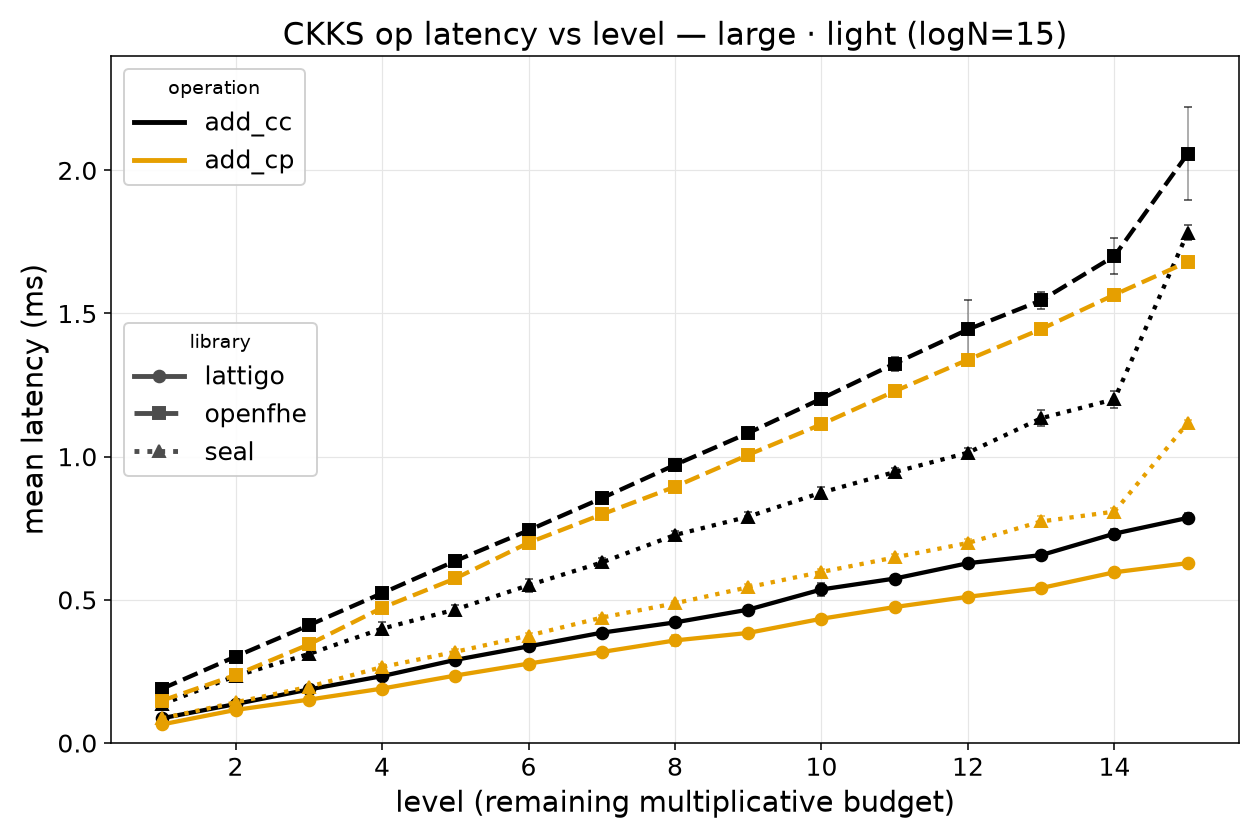
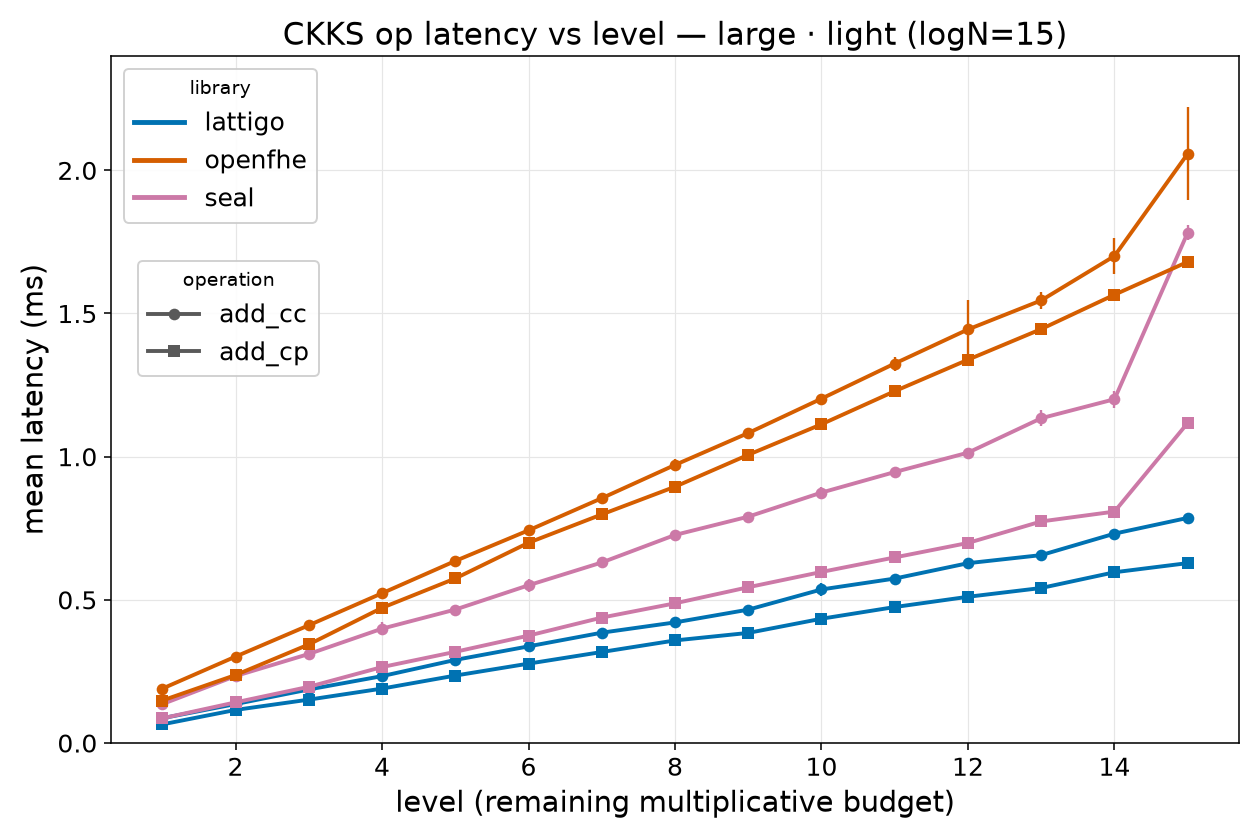
plots: 레벨별 추이 차트 인코딩 변경 (색=라이브러리, 마커=연산, 전부 실선)
문제: 3자가 되며 선이 9개인데 색=연산 / 선스타일=라이브러리라 선 하나를 짚으려면
범례 둘을 교차 참조해야 했다. 게다가 요약 막대 차트는 색=라이브러리라 같은 발표
안에서 색의 의미가 뒤바뀌었다.

- 선스타일 인코딩 폐지 — 전부 실선
- 색 = 라이브러리 (요약 차트와 동일: lattigo #0072B2 / openfhe #D55E00 / seal #CC79A7)
- 마커 = 연산. 티어별로 o, s, ^ 재사용(light는 연산 2개라 o, s만).
  채운 마커 + markeredgewidth=0, markeredgecolor=선색 → 마커와 선이 한 획으로 이어진다
- 에러바 = 표준편차 1배, elinewidth 1.2 / capsize 3 / capthick 1.2, 색은 라이브러리 색
- 범례 library / operation 을 좌상단에 세로로 배치(leg1 실제 높이를 재서 아래에 붙임)

요약 막대 차트(plot_summary_*)는 건드리지 않았다.

Claude-Session: https://claude.ai/code/session_01QAUSb1GNgxJ2ga7wyt3GKn

diff --git a/aggregate.py b/aggregate.py
@@ -27,8 +27,13 @@ plt.rcParams.update({
 LIB_COLOR = {"lattigo": "#0072B2", "openfhe": "#D55E00", "seal": "#CC79A7"}  # 파랑 / 주황 / 보라
 LIB_ORDER = ["lattigo", "openfhe", "seal"]
 LIB_LABEL = {"lattigo": "Lattigo", "openfhe": "OpenFHE", "seal": "SEAL"}
-LIB_LS = {"lattigo": "-", "openfhe": "--", "seal": ":"}
-LIB_MARKER = {"lattigo": "o", "openfhe": "s", "seal": "^"}
+LIB_LS = {"lattigo": "-", "openfhe": "--", "seal": ":"}      # (구) 레벨 차트 선스타일 인코딩 — 폐지됨
+LIB_MARKER = {"lattigo": "o", "openfhe": "s", "seal": "^"}   # (구) 동상
+# 레벨 차트 신 스타일(2026-07-27): 색=라이브러리(요약 막대와 동일), 마커=연산, 선은 전부 실선.
+# 예전엔 색=연산 / 선스타일=라이브러리라 선 하나를 짚으려면 범례 둘을 교차 참조해야 했고,
+# 요약 막대 차트(색=라이브러리)와 같은 발표 안에서 색의 의미가 뒤바뀌었다.
+# 마커는 티어마다 재사용한다 — 한 차트 안에서만 구분되면 되고, 종류가 적을수록 읽기 쉽다.
+TIER_MARKERS = ["o", "s", "^"]
 
 OP_COLOR = {
     "add_cc": "#000000",
@@ -259,8 +264,8 @@ def console_summary(df):
 
 
 def plot_level_scaling(df):
-    # 프리셋 × 비용층별 별도 PNG: x=level, y=mean(ms, log), 색=op, 선스타일=library.
-    # 층으로 나눠 op끼리 안 눌리고 Lattigo vs OpenFHE 간격이 잘 보인다.
+    # 프리셋 × 비용층별 별도 PNG: x=level, y=mean(ms), **색=library, 마커=operation, 선은 전부 실선**.
+    # 마커는 채우고 테두리를 없애(mew=0, mec=선색) 마커와 선이 한 획으로 이어져 보이게 한다.
     from matplotlib.lines import Line2D
     for preset in PRESET_ORDER:
         sub = df[df["preset"] == preset]
@@ -270,6 +275,8 @@ def plot_level_scaling(df):
             present = [o for o in ops if not sub[sub["op"] == o].empty]
             if not present:
                 continue
+            # 마커는 티어 내 연산 순서대로 o, s, ^ (light는 연산이 2개라 o, s만 쓰인다).
+            op_marker = {o: TIER_MARKERS[i % len(TIER_MARKERS)] for i, o in enumerate(present)}
             fig, ax = plt.subplots(figsize=(9, 6))
             ymax = 0.0
             for op in present:
@@ -280,22 +287,21 @@ def plot_level_scaling(df):
                     # mean_us/std_us를 ms(÷1000)로 그린다. 원본 데이터는 μs 유지.
                     mean_ms = d["mean_us"].values / 1000.0
                     std_ms = d["std_us"].values / 1000.0
-                    # 선형축이라 대칭 에러바(yerr=std). log_safe_yerr는 로그축 전용이라 미사용.
-                    container = ax.errorbar(
+                    # 에러바 = 표준편차 1배, 캡 스타일. 색은 해당 라이브러리 색.
+                    ax.errorbar(
                         d["level"], mean_ms,
                         yerr=std_ms,
-                        color=OP_COLOR[op],
-                        linestyle=LIB_LS[lib],
-                        marker=LIB_MARKER[lib],
-                        markersize=6, linewidth=2.2,
-                        capsize=2, elinewidth=0.8, ecolor=OP_COLOR[op],
+                        color=LIB_COLOR[lib],
+                        linestyle="-",
+                        marker=op_marker[op],
+                        markersize=6, linewidth=2.0,
+                        markeredgewidth=0, markeredgecolor=LIB_COLOR[lib],
+                        elinewidth=1.2, capsize=3, capthick=1.2,
+                        ecolor=LIB_COLOR[lib],
                     )
-                    for bar in container[2]:  # barlinecols
-                        bar.set_alpha(0.4)
-                    for cap in container[1]:  # caplines
-                        cap.set_alpha(0.6)
                     ymax = max(ymax, float((mean_ms + std_ms).max()))
             # 선형축, 층 데이터에 타이트하게 0부터 시작 → 배수 차이를 정직하게 표시.
+            # mt에서 OpenFHE 에러바가 축을 늘리더라도 그대로 둔다 — 분산이 큰 것 자체가 결과다.
             ax.set_ylim(0, ymax * 1.08)
             ax.set_xlabel("level (remaining multiplicative budget)")
             ax.set_ylabel("mean latency (ms)")
@@ -303,20 +309,21 @@ def plot_level_scaling(df):
                          f"(logN={sub['logN'].iloc[0]})")
             ax.grid(True, which="both", axis="both", color="0.9", linewidth=0.6)
             ax.set_axisbelow(True)
-            # 범례 2개: op=색, library=선스타일 (원본 그대로).
-            op_handles = [Line2D([0], [0], color=OP_COLOR[o], lw=2.5, label=o) for o in present]
-            lib_handles = [
-                *[Line2D([0], [0], color="0.3", lw=2.5, linestyle=LIB_LS[l],
-                         marker=LIB_MARKER[l], label=l) for l in LIB_ORDER],
-            ]
-            # 두 범례 모두 왼쪽에 세로로 배치한다. 곡선이 모두 단조 증가라 왼쪽 위/가운데가
-            # 항상 비어 있는 반면, lower right는 낮게 깔리는 op(예: mul_cp)의 끝점을 가린다
-            # (3자가 되며 범례가 커져 실제로 large·mid에서 가려졌다).
-            leg1 = ax.legend(handles=op_handles, title="operation", loc="upper left",
+
+            # 범례 2개를 좌상단에 세로로 쌓는다. library(색) 위, operation(마커) 아래.
+            lib_handles = [Line2D([0], [0], color=LIB_COLOR[l], lw=2.5, label=l)
+                           for l in LIB_ORDER]
+            op_handles = [Line2D([0], [0], color="0.35", lw=2.0, marker=op_marker[o],
+                                 markersize=6, markeredgewidth=0, label=o) for o in present]
+            leg1 = ax.legend(handles=lib_handles, title="library", loc="upper left",
                              framealpha=0.9)
             ax.add_artist(leg1)
-            ax.legend(handles=lib_handles, title="library", loc="center left",
-                      framealpha=0.9)
+            # leg1의 실제 높이를 재서 그 아래에 붙인다(연산 개수와 무관하게 안정적).
+            fig.canvas.draw()
+            bb = leg1.get_window_extent().transformed(ax.transAxes.inverted())
+            ax.legend(handles=op_handles, title="operation", loc="upper left",
+                      bbox_to_anchor=(bb.x0, bb.y0 - 0.02), framealpha=0.9)
+
             fig.tight_layout()
             out = out_path(f"plot_{preset}_{tier}{SUFFIX}.png")
             fig.savefig(out, dpi=140)
